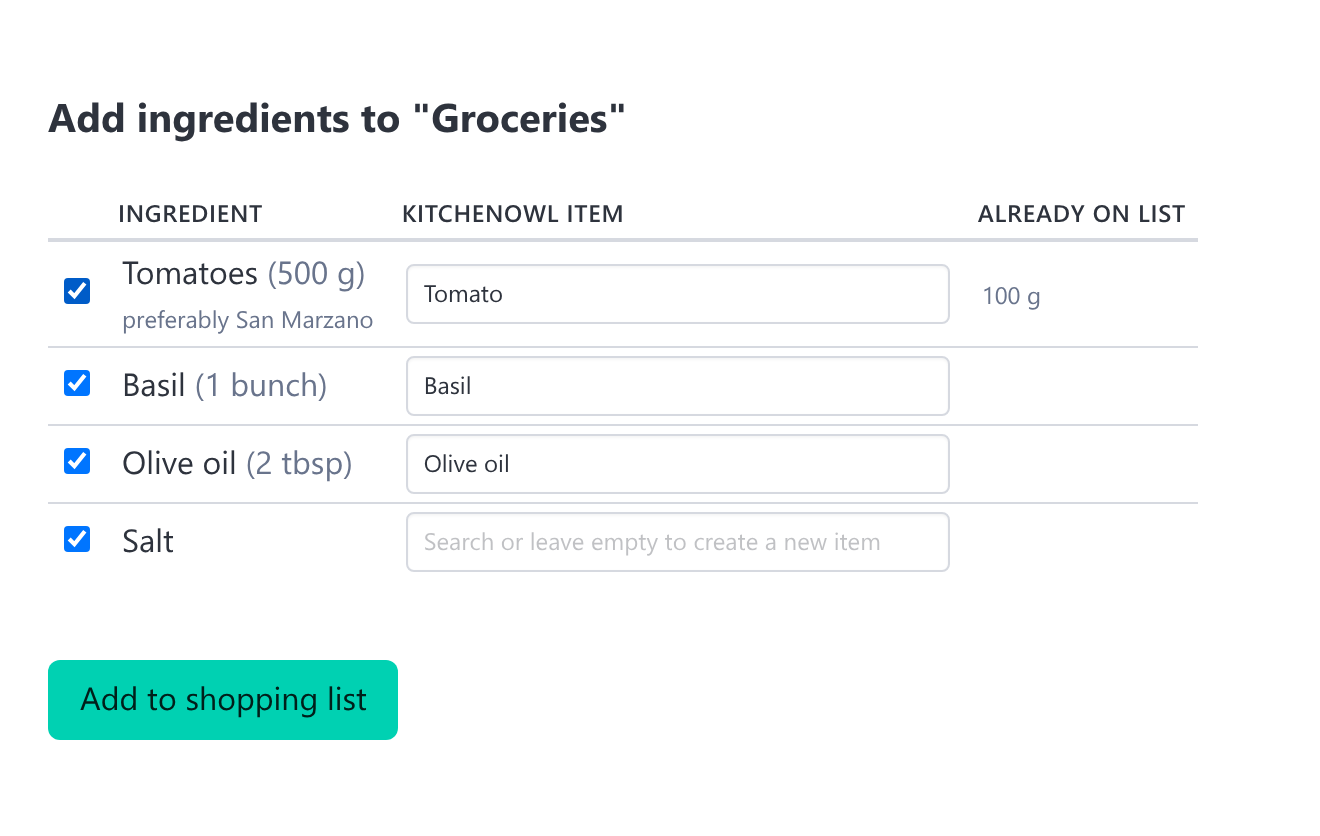
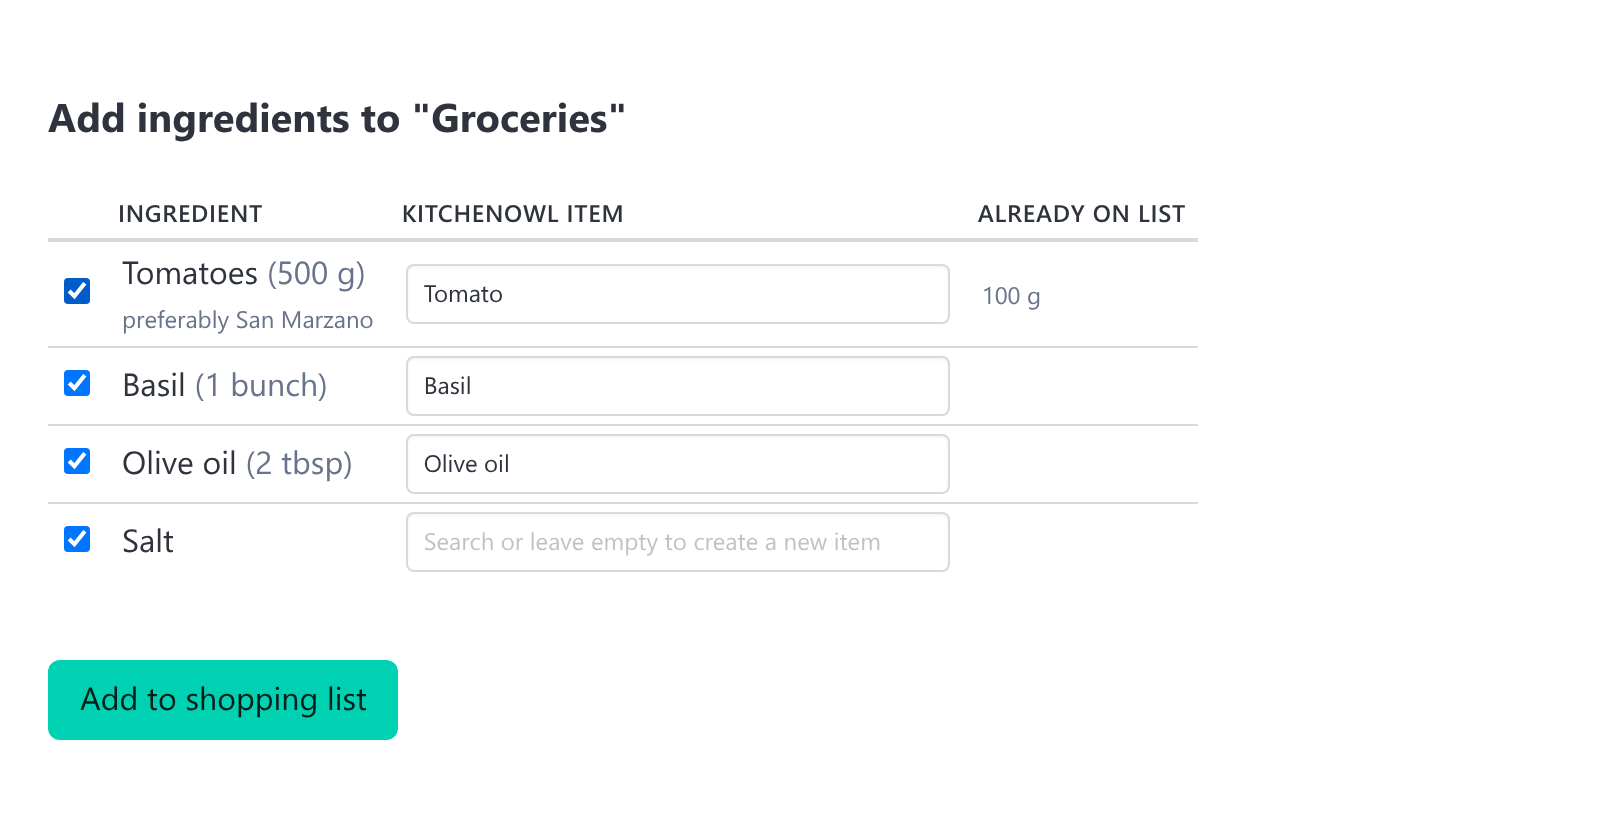
fix: lay the ingredient review screen out vertically on phones
The review screen's three columns cannot hold an ingredient name, a search
box and a quantity side by side at phone widths. Everything got squeezed:
names wrapped mid-quantity, the search box truncated its placeholder, and
below ~340px the "already on list" column was cut off entirely behind
`.table-container`'s sideways scroll, where nothing suggests it is there.
The suggestion dropdown was clipped by that same container.

Bulma does not solve this on its own - its responsiveness covers columns
and spacing helpers, but a table is only ever wrapped in a horizontal
scroll, never reflowed. So stack each ingredient into its own block below
Bulma's `mobile` breakpoint: checkbox and name on one line, then the note,
the item search and the already-on-list hint beneath it.

Giving the table elements a non-table `display` drops their implicit ARIA
roles, so those are now spelled out in the markup - otherwise the row and
cell semantics, and the locators built on them, would exist on desktop
only. The stacked layout also has no column headers left to label the
quantity, so the hint carries its own wording there.

diff --git a/src/bridge/static/style.css b/src/bridge/static/style.css
@@ -43,6 +43,12 @@
   white-space: nowrap;
 }
 
+/* Where the name is allowed to wrap (on mobile), the quantity still has to stay
+   in one piece - "(1 bunch)" broken across two lines reads as two things. */
+.ingredient-quantity {
+  white-space: nowrap;
+}
+
 /* Mealie shows an ingredient's note beneath the ingredient itself, smaller and
    dimmer - mirrored here so the note informs the choice without competing with
    the name. */
@@ -74,26 +80,122 @@
   white-space: nowrap;
 }
 
+/* Only the stacked mobile layout shows this - everywhere else the column header
+   or the marker's `title` already says what the quantity means. */
+.on-list-label {
+  display: none;
+}
+
 .ingredient-table th:last-child,
 .on-list-cell {
   text-align: right;
   white-space: nowrap;
 }
 
-/* Too narrow for the table's natural widths: let names wrap and the search box
-   shrink, rather than making the whole table scroll sideways. */
-@media (max-width: 34rem) {
+/* Phones (Bulma's `mobile` breakpoint - everything up to its `tablet` width of
+   769px), which are a primary target for this app: the bridge is typically
+   triggered from Mealie while standing in the kitchen.
+
+   Three columns cannot hold a name, a search box and a quantity side by side at
+   these widths without squeezing all three - names wrap mid-quantity, the search
+   box truncates its placeholder, and the "already on list" column ends up
+   clipped behind the sideways scroll of `.table-container`. Bulma does not solve
+   this on its own: it makes a table scroll horizontally rather than reflow. So
+   each ingredient becomes a stacked block instead - checkbox and name on one
+   line, then the note, the item search, and the already-on-list hint beneath
+   it. */
+@media screen and (max-width: 768px) {
+  .ingredient-table,
+  .ingredient-table tbody,
+  .ingredient-table td {
+    display: block;
+  }
+
+  .ingredient-table {
+    width: 100%;
+  }
+
+  /* Nothing is in columns any more, so the column headers have nothing to label;
+     the cells that need wording carry their own (see `_on_list_hint.html`). */
+  .ingredient-table thead {
+    display: none;
+  }
+
+  /* With the table reflowed, there is nothing left to scroll sideways - and the
+     container's own `overflow` would otherwise clip the suggestion dropdown. */
+  .table-container {
+    overflow: visible;
+  }
+
+  .ingredient-table .ingredient-row {
+    display: grid;
+    /* The checkbox keeps its own column so the name, note, search box and hint
+       all line up against it. */
+    grid-template-columns: auto 1fr;
+    grid-template-areas:
+      "select ingredient"
+      ".      item"
+      ".      on-list";
+    gap: 0.4rem 0.6rem;
+    padding: 0.75rem 0;
+    border-bottom: 1px solid var(--bulma-border-weak);
+  }
+
+  .ingredient-table .ingredient-row td {
+    border: 0;
+    padding: 0;
+  }
+
+  .ingredient-table .select-cell {
+    grid-area: select;
+    width: auto;
+    /* Aligned with the name's first line rather than centred on a block whose
+       height a long note would drive. */
+    align-self: start;
+  }
+
+  /* Comfortably tappable, unlike the browser's default ~13px box. */
+  .ingredient-table .select-cell input[type="checkbox"] {
+    width: 1.15rem;
+    height: 1.15rem;
+  }
+
   .ingredient-table .ingredient-cell {
+    grid-area: ingredient;
+    /* The full width of the block is available now, so a long name can wrap
+       instead of forcing the layout wider. */
     white-space: normal;
+  }
+
+  .ingredient-table .ingredient-note {
+    max-width: none;
   }
 
   .ingredient-table .item-cell {
-    min-width: 8rem;
+    grid-area: item;
+    /* The grid column, not this minimum, decides the width here. */
+    min-width: 0;
   }
 
-  /* Wrapping the header buys the ingredient column the width it needs more. */
-  .ingredient-table th:last-child {
-    white-space: normal;
+  /* Bulma's `is-small` font would make iOS Safari zoom the page in on focus. */
+  .ingredient-table .item-cell .item-search-input {
+    font-size: 1rem;
+  }
+
+  .ingredient-table .on-list-cell {
+    grid-area: on-list;
+    text-align: left;
+  }
+
+  .on-list-label {
+    display: inline;
+    margin-right: 0.25rem;
+  }
+
+  /* A full-width primary action is easier to hit with a thumb. */
+  .submit-button {
+    display: block;
+    width: 100%;
   }
 }
 

diff --git a/src/bridge/templates/select_ingredients.html b/src/bridge/templates/select_ingredients.html
@@ -7,32 +7,37 @@
 <h1 class="title is-5">Add ingredients to "{{ shopping_list_name }}"</h1>
 <form method="post" action="{{ url_for('review.push_to_shopping_list', list_id=list_id) }}">
   <div class="table-container">
-    <table class="table is-narrow ingredient-table">
-    <thead>
-      <tr>
+    {# The explicit ARIA roles restate what the table elements already imply.
+       They are needed because the mobile layout gives these elements a
+       non-table `display` (see `style.css`), which drops their implicit roles
+       in browsers - the row/cell semantics, and the locators built on them,
+       would otherwise exist on desktop only. #}
+    <table class="table is-narrow ingredient-table" role="table">
+    <thead role="rowgroup">
+      <tr role="row">
         {# Deliberately unlabelled so the column stays as narrow as its checkbox;
            the name is there for screen readers only. #}
-        <th scope="col"><span class="is-sr-only">Include</span></th>
-        <th scope="col">Ingredient</th>
-        <th scope="col">KitchenOwl item</th>
-        <th scope="col">Already on list</th>
+        <th scope="col" role="columnheader"><span class="is-sr-only">Include</span></th>
+        <th scope="col" role="columnheader">Ingredient</th>
+        <th scope="col" role="columnheader">KitchenOwl item</th>
+        <th scope="col" role="columnheader">Already on list</th>
       </tr>
     </thead>
-    <tbody>
+    <tbody role="rowgroup">
       {% for ingredient in ingredients %}
       {% set match = matches.get(ingredient.name) %}
       {# aria-label pins the row's accessible name to the ingredient, so it stays
          stable as the other cells change (an item picked, suggestions opened). #}
-      <tr class="ingredient-row" aria-label="{{ ingredient.name }}">
-        <td class="select-cell">
+      <tr class="ingredient-row" role="row" aria-label="{{ ingredient.name }}">
+        <td class="select-cell" role="cell">
           <input type="checkbox" id="ingredient-{{ loop.index }}"
                  name="ingredient" value="{{ ingredient.name }}" checked />
         </td>
-        <td class="ingredient-cell">
+        <td class="ingredient-cell" role="cell">
           <label class="checkbox" for="ingredient-{{ loop.index }}">
             {{ ingredient.name }}
             {% if ingredient.quantity %}
-            <span class="has-text-grey" data-testid="ingredient-quantity">({{ ingredient.quantity }})</span>
+            <span class="has-text-grey ingredient-quantity" data-testid="ingredient-quantity">({{ ingredient.quantity }})</span>
             {% endif %}
           </label>
           {% if ingredient.note %}
@@ -44,7 +49,7 @@
           {% endif %}
           <input type="hidden" name="quantity:{{ ingredient.name }}" value="{{ ingredient.quantity or '' }}" />
         </td>
-        <td class="item-cell">
+        <td class="item-cell" role="cell">
           <div class="dropdown">
             <div class="dropdown-trigger">
               <input type="text" class="input is-small item-search-input" name="q"
@@ -69,7 +74,7 @@
           </div>
         </td>
         {# Rewritten by the suggestion buttons when a different item is picked. #}
-        <td class="on-list-cell" data-testid="on-list-cell">
+        <td class="on-list-cell" role="cell" data-testid="on-list-cell">
           {%- if match and match.id in quantities_on_list -%}
           {{ on_list_hint(quantities_on_list[match.id]) }}
           {%- endif -%}
@@ -79,6 +84,6 @@
     </tbody>
     </table>
   </div>
-  <button type="submit" class="button is-primary">Add to shopping list</button>
+  <button type="submit" class="button is-primary submit-button">Add to shopping list</button>
 </form>
 {% endblock %}

diff --git a/src/bridge/templates/_on_list_hint.html b/src/bridge/templates/_on_list_hint.html
@@ -1,6 +1,8 @@
 {# Shared by the review table's "Already on list" column and the item
-   suggestions. The column header carries the wording, so the marker itself is
-   just the quantity already on the list (or a tick, for an item on the list
-   without one) - the `title` stands in for that header inside the suggestion
-   list, which has no header of its own. #}
-{% macro on_list_hint(quantity) %}<span class="on-list-hint" data-testid="on-list-hint" title="Already on this shopping list">{% if quantity %}<span data-testid="on-list-quantity">{{ quantity }}</span>{% else %}&check;{% endif %}</span>{% endmacro %}
+   suggestions. The marker itself is just the quantity already on the list (or a
+   tick, for an item on the list without one): on desktop the column header
+   carries the wording, and the `title` stands in for that header inside the
+   suggestion list, which has no header of its own. The mobile layout has
+   neither - the columns are stacked and their headers hidden - so it shows the
+   `on-list-label` span instead (see `style.css`). #}
+{% macro on_list_hint(quantity) %}<span class="on-list-hint" data-testid="on-list-hint" title="Already on this shopping list"><span class="on-list-label">Already on list:</span>{% if quantity %}<span data-testid="on-list-quantity">{{ quantity }}</span>{% else %}&check;{% endif %}</span>{% endmacro %}

diff --git a/tests/bdd/steps/test_recipe_to_shopping_list.py b/tests/bdd/steps/test_recipe_to_shopping_list.py
@@ -412,3 +412,37 @@ def see_suggestion_not_marked_on_list(page, item_name):
     suggestion = _suggestion(page, item_name)
     expect(suggestion).to_be_visible()
     expect(suggestion.get_by_test_id("on-list-hint")).not_to_be_attached()
+
+
+# A common small-phone viewport. Phones are an explicit target for this app (see
+# AGENTS.md), and this is where the review screen's columns stop fitting.
+_PHONE_VIEWPORT = {"width": 360, "height": 740}
+
+
+@given("I am using a phone-sized screen")
+def using_phone_sized_screen(page):
+    page.set_viewport_size(_PHONE_VIEWPORT)
+
+
+# Horizontal overflow is the symptom of a layout that doesn't fit: either the
+# page is wider than the screen, or some element inside it (Bulma's
+# `.table-container` around a too-wide table, say) has put the excess behind a
+# sideways scroll of its own - which cuts content off where nothing suggests it
+# is there. Only elements that actually scroll count, so that deliberately
+# clipped content (Bulma's `is-sr-only`, whose text is meant for screen readers
+# only) isn't reported. The 1px tolerance absorbs sub-pixel rounding.
+_HORIZONTAL_OVERFLOW_JS = """() => {
+    const scrollsSideways = (el) =>
+        el.scrollWidth > el.clientWidth + 1 &&
+        ['auto', 'scroll'].includes(getComputedStyle(el).overflowX);
+    const offenders = [...document.querySelectorAll('body *')].filter(scrollsSideways);
+    const doc = document.documentElement;
+    if (doc.scrollWidth > doc.clientWidth + 1) offenders.unshift(doc);
+    return offenders.map((el) => el.tagName.toLowerCase() + '.' + el.className);
+}"""
+
+
+@then("nothing on the screen is cut off or needs scrolling sideways")
+def nothing_cut_off_sideways(page):
+    offenders = page.evaluate(_HORIZONTAL_OVERFLOW_JS)
+    assert offenders == [], f"wider than the space they are given: {offenders}"

diff --git a/README.md b/README.md
@@ -40,6 +40,16 @@ What the review screen offers:
   the chosen list, so an ingredient that is already covered is visible before
   pushing. The same marker appears on search suggestions.
 - **Unchecking** an ingredient excludes it from the push.
+- **Phone layout**: below Bulma's `mobile` breakpoint the review table stacks
+  into one block per ingredient - checkbox and name on one line, then the note,
+  the item search and the already-on-list hint - so nothing is squeezed into
+  columns too narrow to read or hidden behind a sideways scroll. Triggering the
+  bridge from a phone in the kitchen is the common case, so this is a supported
+  layout rather than a fallback.
+
+  <img src="docs/screenshots/review-screen-mobile.png" width="320"
+       alt="The same review screen on a phone, with each ingredient stacked into its own block" />
+
 - **Quantity merging** is KitchenOwl's own: the push uses the same
   `recipeitems` endpoint as KitchenOwl's recipe import, which merges same-unit
   quantities (100 g plus 50 g becomes 150 g) and otherwise appends the new
